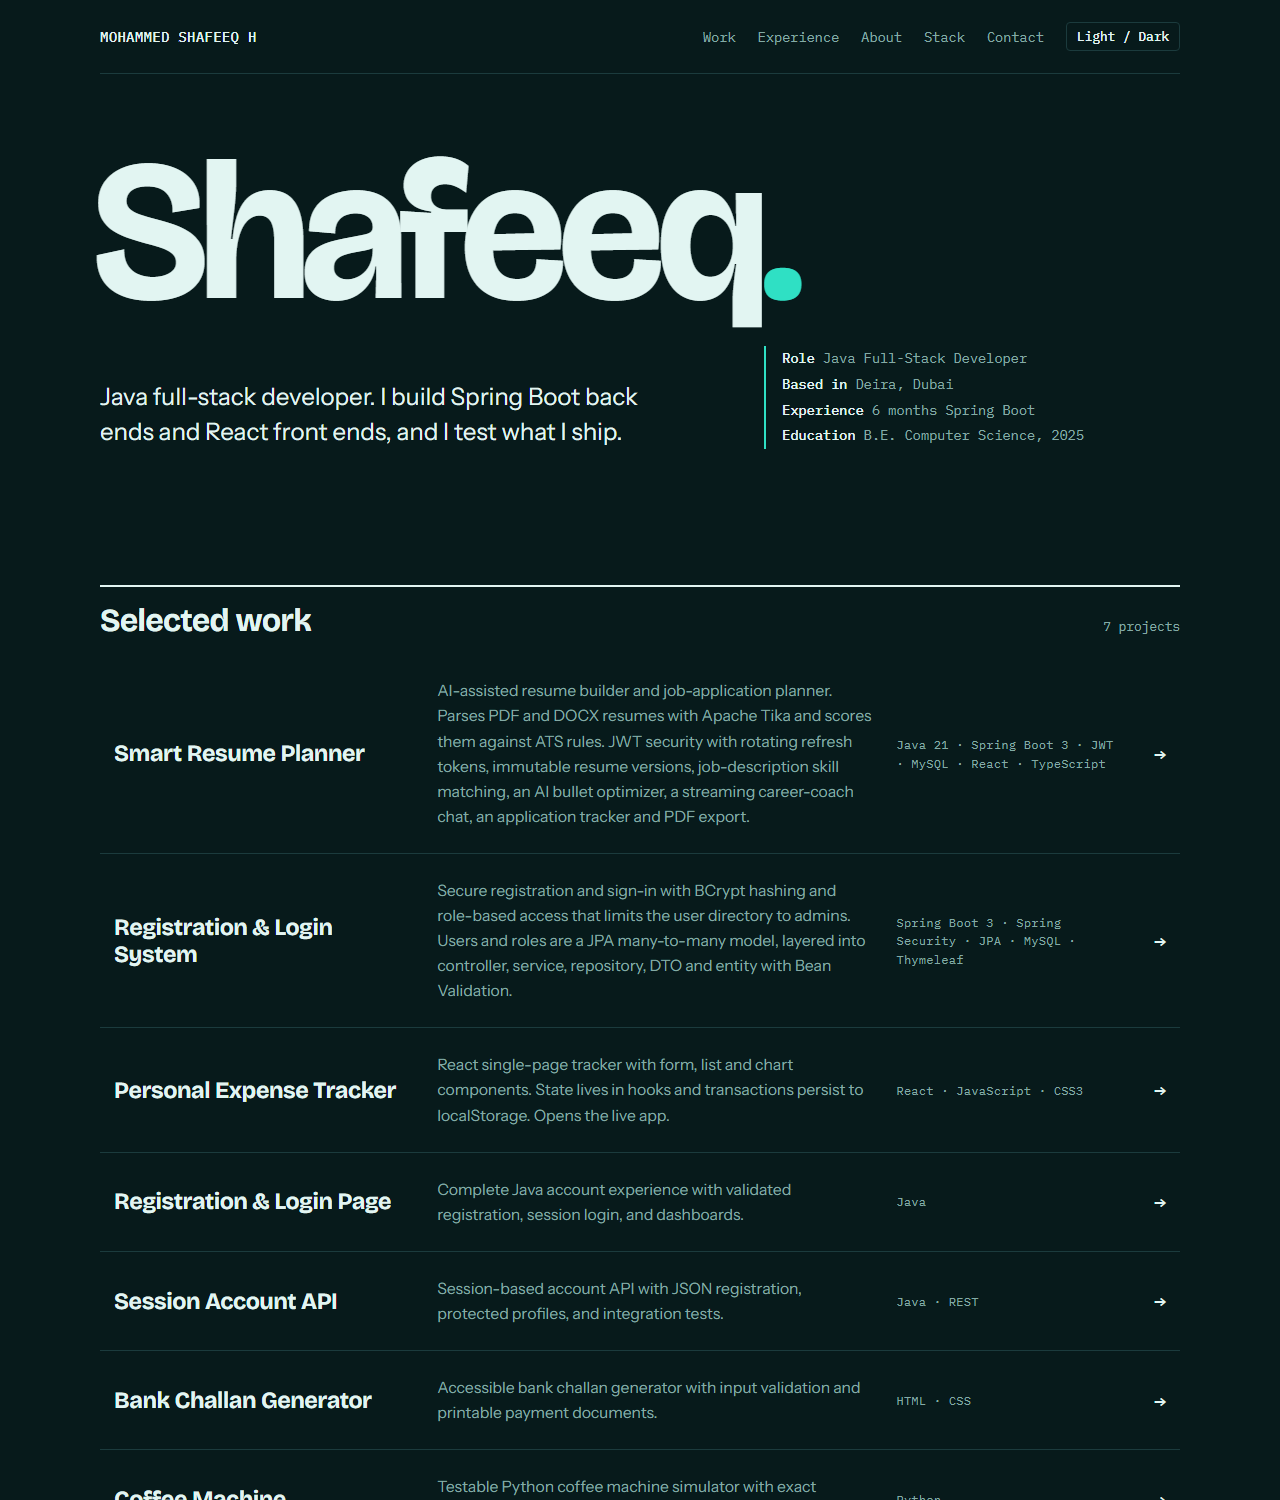
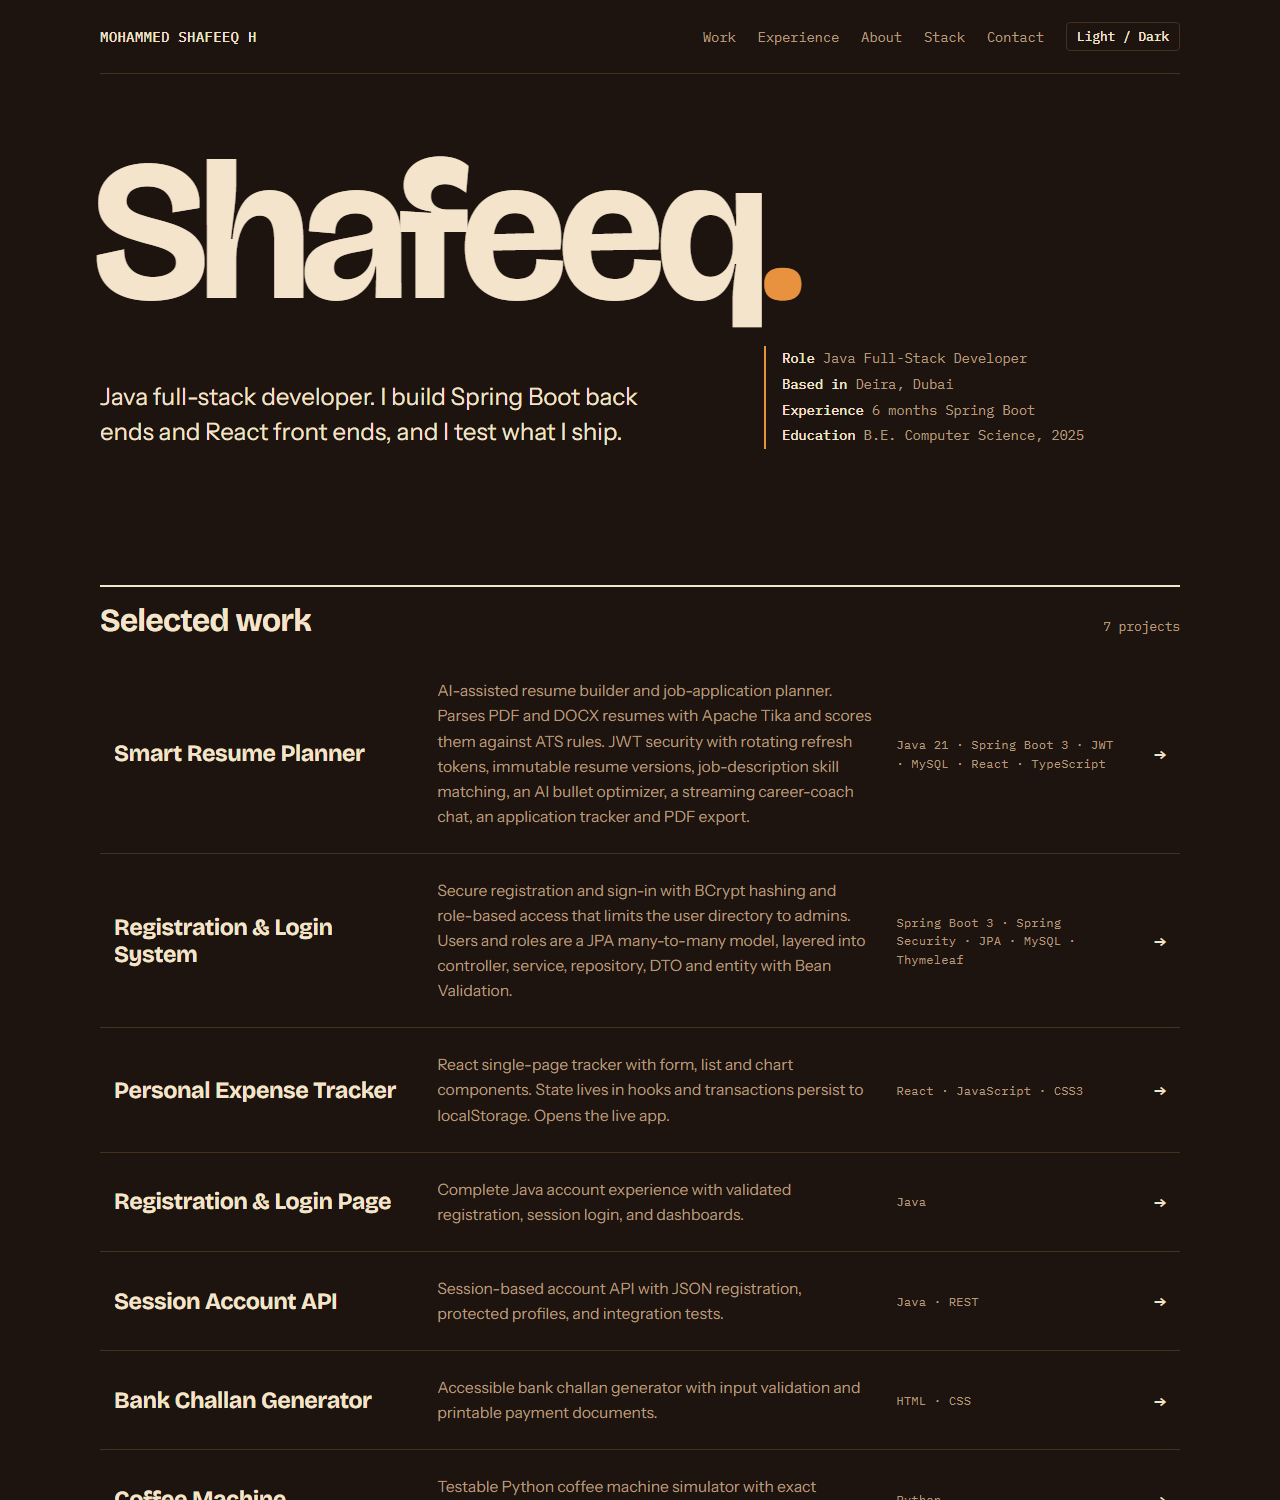
Switch to desert theme

diff --git a/index.html b/index.html
@@ -11,16 +11,16 @@
 <style>
 /* Layout: left-aligned editorial index. Giant name, a ruled project index that fills on hover, a language bar drawn from the real repositories. */
 :root{
-  --bg:#e9f5f3; --surface:#f6fcfb; --fg:#0a1f1d; --muted:#456562; --line:#c2dcd8;
-  --accent:#0a7f72; --accent-ink:#ffffff;
+  --bg:#f3e6d0; --surface:#faf1e0; --fg:#2b1d12; --muted:#6a5642; --line:#dcc7a5;
+  --accent:#b04a1a; --accent-ink:#fff8ee;
   --display:'Bricolage Grotesque','Arial Narrow',Arial,sans-serif;
   --body:'Instrument Sans',system-ui,sans-serif;
   --mono:'IBM Plex Mono',ui-monospace,Consolas,monospace;
 }
 @media (prefers-color-scheme:dark){
-  :root:not([data-theme="light"]){--bg:#071a1b;--surface:#0d2325;--fg:#e2f5f2;--muted:#84aaa5;--line:#1b3b3d;--accent:#2fe0c4;--accent-ink:#04201c;color-scheme:dark}
+  :root:not([data-theme="light"]){--bg:#1d1410;--surface:#2a1d15;--fg:#f4e4cb;--muted:#b39a7c;--line:#43301f;--accent:#e8913f;--accent-ink:#1d1410;color-scheme:dark}
 }
-:root[data-theme="dark"]{--bg:#071a1b;--surface:#0d2325;--fg:#e2f5f2;--muted:#84aaa5;--line:#1b3b3d;--accent:#2fe0c4;--accent-ink:#04201c;color-scheme:dark}
+:root[data-theme="dark"]{--bg:#1d1410;--surface:#2a1d15;--fg:#f4e4cb;--muted:#b39a7c;--line:#43301f;--accent:#e8913f;--accent-ink:#1d1410;color-scheme:dark}
 *{box-sizing:border-box;margin:0}
 html{scroll-behavior:smooth}
 body{background:var(--bg);color:var(--fg);font:400 1.0625rem/1.6 var(--body);-webkit-font-smoothing:antialiased;padding-left:max(16px,env(safe-area-inset-left,0px));padding-right:max(16px,env(safe-area-inset-right,0px));padding-block:0}
